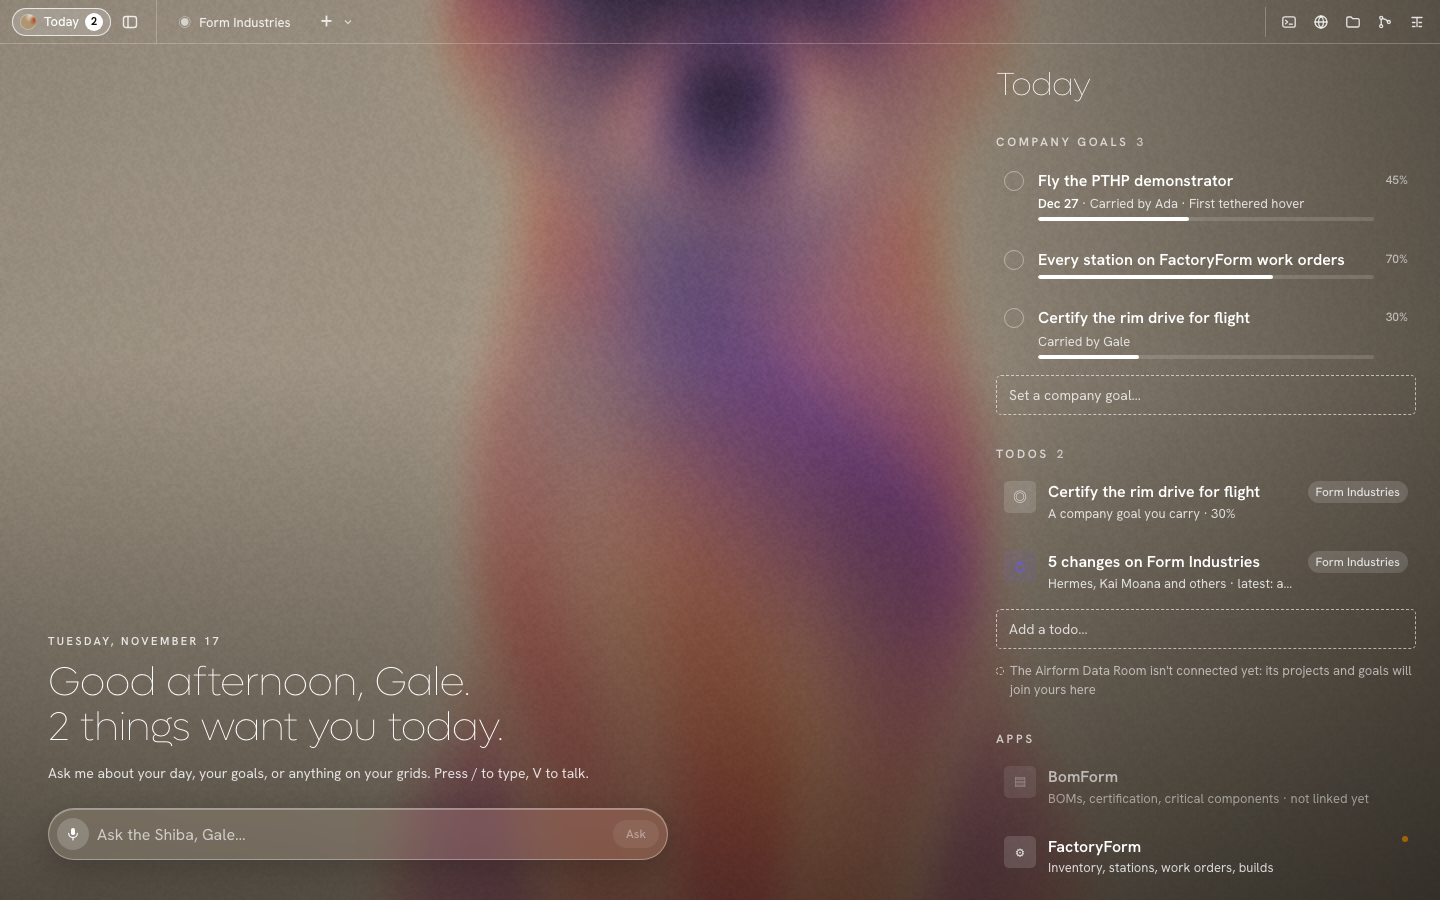
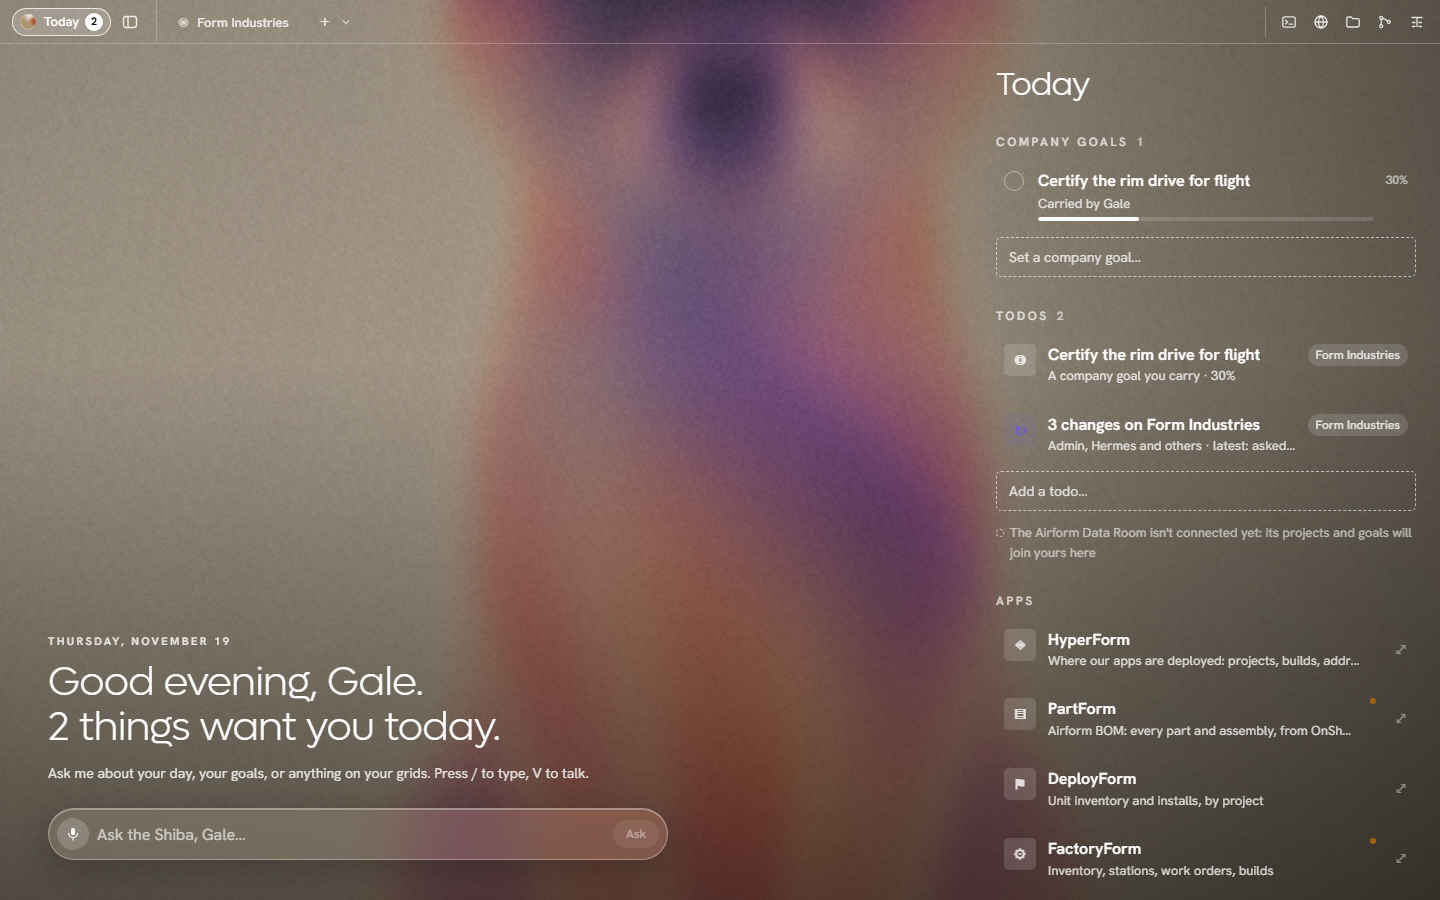
Today's apps from HyperForm's dashboard: MetalForm, Form Gantt, Form Chess, Airform; PartForm and DeployForm said as they are
Read off the dashboard once Josh had signed in (ten projects; storage,
stopped and empty ones left out). PartForm's own page is "Airform BOM"
(so it is BomForm) and asks for an OnShape sign-in too; DeployForm is an
inventory and install tracker. npm test, typecheck and the pages and today
e2e specs pass.

diff --git a/packages/protocol/src/apps.ts b/packages/protocol/src/apps.ts
@@ -11,6 +11,9 @@
  * Those are marked `signIn: "hyperform"`: a frame can't show them (the sign-in
  * refuses framing, and its cookie doesn't travel into a frame), so in Foundation
  * they open as a page of the server's own browser (PanelDoc.via === "browser").
+ *
+ * PartForm is the app once called BomForm (its own page is titled "Airform BOM"); behind HyperForm's sign-in it
+ * asks for a second one, OnShape's, by invitation.
  */
 export interface CompanyAppDef {
   id: string;
@@ -46,9 +49,14 @@ export function onHyperForm(url: string | null | undefined): boolean {
 
 export const COMPANY_APPS: CompanyAppDef[] = [
   { id: "hyperform", name: "HyperForm", role: "Where our apps are deployed: projects, builds, addresses", glyph: "◈", env: "HYPERFORM_URL", url: HYPERFORM_URL, signIn: "hyperform" },
-  { id: "partform", name: "PartForm", role: "Every part and BOM (also known as BomForm)", glyph: "▤", connector: "bomform", env: ["PARTFORM_URL", "BOMFORM_URL"], url: "https://partform.apps.normallab.co/", signIn: "hyperform" },
-  { id: "deployform", name: "DeployForm", role: "Customers and deployments", glyph: "⚑", env: "DEPLOYFORM_URL", url: "https://deployform.apps.normallab.co/", signIn: "hyperform" },
+  { id: "partform", name: "PartForm", role: "Airform BOM: every part and assembly, from OnShape", glyph: "▤", connector: "bomform", env: ["PARTFORM_URL", "BOMFORM_URL"], url: "https://partform.apps.normallab.co/", signIn: "hyperform" },
+  { id: "deployform", name: "DeployForm", role: "Unit inventory and installs, by project", glyph: "⚑", env: "DEPLOYFORM_URL", url: "https://deployform.apps.normallab.co/", signIn: "hyperform" },
   { id: "factoryform", name: "FactoryForm", role: "Inventory, stations, work orders, builds", glyph: "⚙", repo: "joshleong/FactoryForm", connector: "factoryform", env: "FACTORYFORM_APP_URL", url: "https://factory-form-factoryform.apps.normallab.co/", signIn: "hyperform" },
+  // the rest of what HyperForm's dashboard lists (read 2026-11-19); its storage, stopped and empty projects are left out
+  { id: "metalform", name: "MetalForm", role: "Hawaiʻi community fabrication: quotes and jobs", glyph: "⬡", env: "METALFORM_URL", url: "https://formindustries-metalform.apps.normallab.co/", signIn: "hyperform" },
+  { id: "gantt", name: "Form Gantt", role: "Gantt charts, shared by group", glyph: "▬", env: "GANTT_URL", url: "https://gnatt-chart-web.apps.normallab.co/", signIn: "hyperform" },
+  { id: "airform", name: "Airform", role: "The product site (airform.space)", glyph: "◌", env: "AIRFORM_URL", url: "https://airform.space/" },
+  { id: "chess", name: "Form Chess", role: "Play a colleague", glyph: "♞", env: "CHESS_URL", url: "https://form-chess-web.apps.normallab.co/", signIn: "hyperform" },
   { id: "vision", name: "Vision", role: "Design, simulation, CAD", glyph: "◎", connector: "vision", env: "VISION_URL" },
   { id: "dataroom", name: "Airform Data Room", role: "Programmes, economics, investors", glyph: "▥", repo: "joshleong/AirformDataRoom", connector: "dataroom", env: "DATAROOM_URL" },
   { id: "creation", name: "Creation", role: "Brand, merchandise, studio", glyph: "✎", repo: "joshleong/Creation", connector: "creation", env: "CREATION_URL" },

diff --git a/apps/server/test/pagecard.test.ts b/apps/server/test/pagecard.test.ts
@@ -93,6 +93,13 @@ test("the company's apps: the four on HyperForm are linked where they are hosted
     assert.equal(apps.get(id)?.signIn, "hyperform", id);
     assert.ok(onHyperForm(apps.get(id)?.url), id);
   }
+  // the others HyperForm's dashboard lists: behind its sign-in when it hosts them, a frame when it doesn't
+  assert.equal(apps.get("metalform")?.url, "https://formindustries-metalform.apps.normallab.co/");
+  assert.equal(apps.get("gantt")?.url, "https://gnatt-chart-web.apps.normallab.co/");
+  assert.equal(apps.get("chess")?.url, "https://form-chess-web.apps.normallab.co/");
+  for (const id of ["metalform", "gantt", "chess"]) assert.equal(apps.get(id)?.signIn, "hyperform", id);
+  assert.equal(apps.get("airform")?.url, "https://airform.space/");
+  assert.equal(apps.get("airform")?.signIn, undefined);
   // PartForm still shows BomForm's connector state, and an app with no address is still "not linked"
   assert.equal(apps.get("partform")?.connector, "bomform");
   assert.equal(apps.get("fleetform")?.url, null);

diff --git a/SPEC.md b/SPEC.md
@@ -13,7 +13,7 @@ The plan moved to a kanban board on 2026-11-07 (§8). What only a person can do,
 - **Restart the server the desktop app runs** (2026-11-17, plan: *server-restart-4410*): the Foundation server on `localhost:4410` was started from this checkout on 2026-11-15 at 19:42 and has not been restarted since, so it serves the code of that hour. "Add a desktop" answering *not found* was exactly that: the running server is from before the desktop routes (§7). Nothing built on 2026-11-17 (the council on its section's edge, the guided agent setup and its `claude` preset, sub-grids, the expressions stage, the studio's nodes, the machine fixes, the built-in terminal, the change log and turning on a T3 agent) is served until it restarts: the server switch (now a small pill right of Settings, at the foot of the side menu), Stop, then Start, once this branch is in the checkout it starts from. Then Desktop → Add a desktop on `box-a70f`. Nobody restarted that server or touched that machine in this work
 - **Press the animals' expression sheets** (2026-11-17, plan: *character-expressions-press*): none was generated, for the animals or anyone else. It spends Meshy credits, so it is a person's press: 9 credits each, 54 for the six animal mesh avatars. On a server running this code, press Mochi's first (9) and look at it (the prompt has never met the real image model, §7), then the other five (45). `node scripts/characters-expressions.mjs --set animals` lists them and the cost; `--press` with `FOUNDATION_SESSION` spends them
 - **Look at three things built on 2026-11-18 and say if they're right** (plan: *themes-browser-sheets*, Review; §0.9, §7; a fourth is settled: 2026-11-19, Josh keeps every section he adds starting with a pinned table); (2) **the wheel zooms** and a trackpad still pans, told apart by how a gesture starts: if your mouse is ever read as a trackpad (or the other way), Settings → General → *The wheel on a grid* has **Pans**, and tell me which mouse; (3) **the built-in browser runs on the server's computer** with a profile of its own (`work/host-browser`): what you sign into there stays signed in, for you and for agents you let in; (4) **the "section adjuster" on your older grids**: the grab area is now cut to each section's own edge, but your older grids weren't opened (the check ran on fresh data), so the fault you saw there was not reproduced.
-- **Sign in to HyperForm once, in Foundation's own browser** (2026-11-19, plan: *hyperform-sign-in*; §0.10, §7): Today → ⤢ beside HyperForm (or any of PartForm, DeployForm, FactoryForm), ⌘/Ctrl-click the page, and sign in with your work Google account. The sign-in is kept in the server's browser profile, so the four apps open signed in from then on and their pictures are kept. **Not checked: whether Google lets you sign in there** (it refuses some automated browsers, §7); if it does refuse, say so and the next step is HyperForm's own token or machine certificate. Also say whether **PartForm is BomForm** (the list now shows one row, "PartForm (also known as BomForm)")
+- **Sign in to HyperForm once, in Foundation's own browser** (2026-11-19, plan: *hyperform-sign-in*; §0.10, §7): Today → ⤢ beside HyperForm (or any of PartForm, DeployForm, FactoryForm), ⌘/Ctrl-click the page, and sign in with your work Google account. The sign-in is kept in the server's browser profile, so the four apps open signed in from then on and their pictures are kept. **Not checked: whether Google lets you sign in there** (it refuses some automated browsers, §7); if it does refuse, say so and the next step is HyperForm's own token or machine certificate. PartForm also asks for an **OnShape sign-in** of its own (invite-only): do that there too
 - **Tell Kiri one more thing** (plan: *kiri-exec-bugs*): processes killed inside a machine are never reaped (found 2026-11-17, stopping a desktop's install; §7)
 - **Before the desktop app goes to anyone else** (2026-11-12, found reading the updater end to end):
   - **Releases build themselves** (2026-11-13, Josh: "all future improvements get installed on the desktop version without having to be built by claude"): every push to `main` on `joshleong/Foundation` that passes `npm test` and typecheck becomes a signed Windows release, `v0.3.<run>` (`.github/workflows/desktop-release.yml`, `npm run release -- ci`), and the feed every installed copy reads is `https://github.com/joshleong/Foundation/releases/latest/download/latest.json` again (Josh chose the fork over the org repo that day: the org repo's main stopped on 2026-10-04 and its history has split from this one). The installed 0.3.0 was uninstalled the same day (its data in `%APPDATA%\co.normallab.foundation` kept): **install once from the newest release** and every later push reaches it as an update card (one press, as before). The feed only works while the repo is public
@@ -274,7 +274,9 @@ Not built, or not as asked: **only tables pin** (a note, a map or a picture span
 - *Agents*: the five `browser_` tools of 2026-11-18 reach a card's page: with **Agents** on (on the card or in the Browser tool; the person's own agents only), `browser_tabs` lists each card's tab with its `card` id, and an agent selects it, reads it and types into it. What it does shows on the page.
 - *Any page card* can be moved between a frame and the real browser from its right-click menu ("Show it in the real browser" / "Show it in a frame").
 
-**Not built, or not as asked.** **Nobody has signed in**: HyperForm's dashboard was not opened, so no links were pulled out of it; the four addresses are the ones in the ask, checked only for answering (dock 200, PartForm a redirect to its login, the other two 401). **Google's sign-in was not tried in this browser** (§7). **HyperForm's MCP server, CLI and API are not wired**: listing its projects on Today, deploy state, and a machine certificate so the server reads an app without a person's session are the next slice (plan: *hyperform-projects*). **The live page is an admin's only** and runs where the server runs. **A picture is only as fresh as the last time an admin was near the page**: nothing refreshes it in the background (that would be a browser starting without a person). **Rune draws none of this.** **The page is sharp at up to 100 % zoom on a 1× screen**: zoomed in past the card's own size it is enlarged, not re-rendered.
+**The dashboard, read once Josh had signed in (2026-11-19, in Claude's own browser pane, not Foundation's).** Ten projects: deployform, partform, factory-form, formindustries-metalform, gnatt-chart (Form Gantt), form-chess, airform (`airform.space`, the product site, public), form-figma (`form-figma-files…`: a storage service, not a page), flowform (`server.formresearch.ai`, stopped) and git (empty). Added to the list: **MetalForm, Form Gantt, Form Chess** (behind HyperForm's sign-in: each redirects to the dock's gate) and **Airform** (public, a frame). What the pages are: **PartForm is "Airform BOM"**, so it is BomForm, and behind HyperForm's sign-in it asks for a second one, OnShape's, by invitation; **DeployForm is an "Inventory & Install Tracker"** (units in inventory and installs by project, not a customer list), and its description says so now; FactoryForm opened on its factory twin.
+
+**Not built, or not as asked.** **The list is still kept by hand**: it was read off the dashboard once; a new project on HyperForm does not appear by itself (plan: *hyperform-projects*). **Nobody has signed in inside Foundation's own browser**, so the real apps have not been seen in a card. **Google's sign-in was not tried in that browser** (§7). **HyperForm's MCP server, CLI and API are not wired**: listing its projects on Today, deploy state, and a machine certificate so the server reads an app without a person's session are the next slice (plan: *hyperform-projects*). **The live page is an admin's only** and runs where the server runs. **A picture is only as fresh as the last time an admin was near the page**: nothing refreshes it in the background (that would be a browser starting without a person). **Rune draws none of this.** **The page is sharp at up to 100 % zoom on a 1× screen**: zoomed in past the card's own size it is enlarged, not re-rendered.
 
 **What shows it's right.** `apps/server/test/pagecard.test.ts` (4: the list and its addresses; a card's ask and its one-time key; the picture store refusing what isn't a JPEG and any path out of its folder; and against the real Chrome on this machine: two cards, two tabs, each socket kept to its own, the picture kept and told, not kept at another site, an agent reading a card's page with leave and refused without). `apps/client/e2e/pages.spec.ts` (5, Chromium driving the app while the server drives Chrome; DeployForm is a stand-in page the checks serve, the real one is never opened): Today's four rows and addresses; ⤢ making a section the page fills, live with no frame, at the card's size; a plain click not using it and Ctrl-click showing its bar; an agent refused, then with Agents on finding the card's tab, reading "Three customers are being deployed" and typing into its field; ⤢ again making no second card; zoomed out, the picture and "seen …" with the canvas hidden, and live again near with no press; a member seeing the picture and ↗, refused the browser (403); the rows on `#/design`. `today.spec.ts`, `look.spec.ts` and `card-use.spec.ts` still pass beside it; `npm test` (734, none failing) and typecheck are green. Evidence: `docs/evidence/2026-11-19_hyperform/` (6 shots and `NOTES.md`).
 

diff --git a/docs/evidence/2026-11-19_hyperform/NOTES.md b/docs/evidence/2026-11-19_hyperform/NOTES.md
@@ -22,3 +22,18 @@ What the real addresses answered without a sign-in (read with curl, 2026-11-19):
 
 Not checked: the real apps inside Foundation (it needs a person's sign-in), and whether Google allows its
 sign-in in the server's browser.
+
+## HyperForm's dashboard, read after Josh signed in (Claude's browser pane)
+
+| Project | Address | State | In Today's list |
+| --- | --- | --- | --- |
+| partform | partform.apps.normallab.co | Ready | PartForm ("Airform BOM"; then asks for an OnShape sign-in) |
+| deployform | deployform.apps.normallab.co | Sleeping | DeployForm ("Inventory & Install Tracker") |
+| factory-form | factory-form-factoryform.apps.normallab.co | Ready | FactoryForm |
+| formindustries-metalform | formindustries-metalform.apps.normallab.co | Sleeping | MetalForm (added) |
+| gnatt-chart | gnatt-chart-web.apps.normallab.co | Sleeping | Form Gantt (added) |
+| form-chess | form-chess-web.apps.normallab.co | Sleeping | Form Chess (added) |
+| airform | airform.space | Ready | Airform, the product site (added; public) |
+| form-figma | form-figma-files.apps.normallab.co | Ready | no: a storage service, not a page |
+| flowform | server.formresearch.ai | Stopped | no |
+| git | none | Stopped | no |
